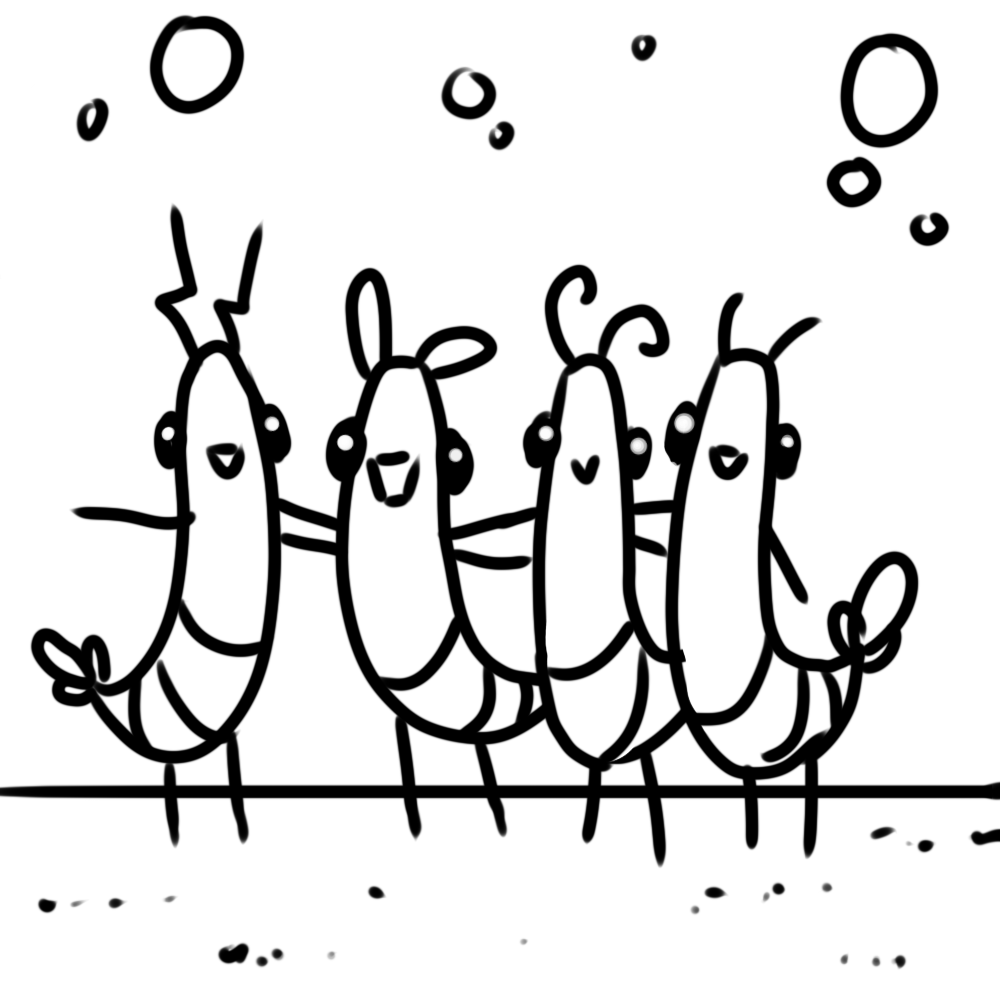
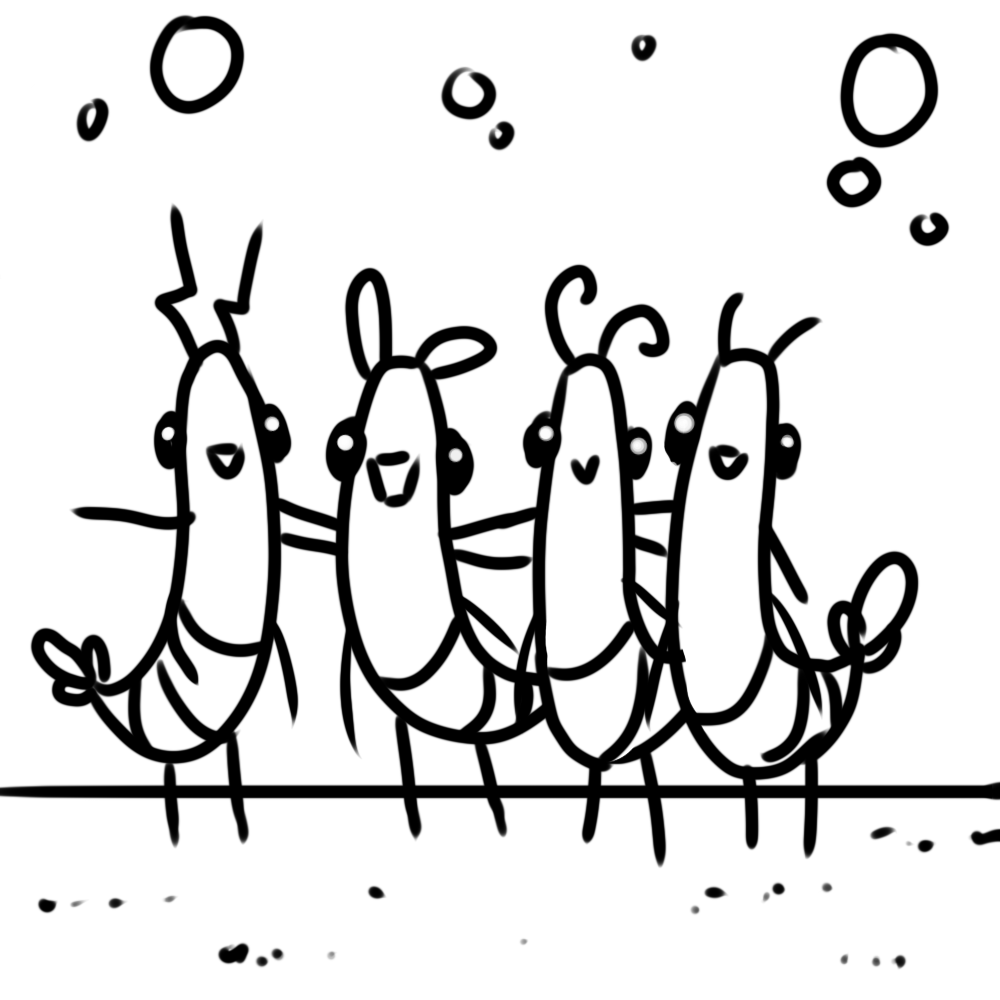
menu image and line break

diff --git a/menu.html b/menu.html
@@ -441,7 +441,7 @@
           </div>
         </div>
         <div class="cap">
-          <span><b>TheBossman </b>Day 21 of photographing sleeping regulars. The bar is not your bed, go home. 
+          <span><b>TheBossman </b>Day 21 of photographing sleeping regulars. The bar is not your bed, go home. <br>
           <b>Shrimplin </b>Is this allowed?
           </span>
           <svg class="heart" viewBox="0 0 16 16"><path d="M8 14.5 1.6 8A4 4 0 0 1 8 3a4 4 0 0 1 6.4 5z"/></svg>
